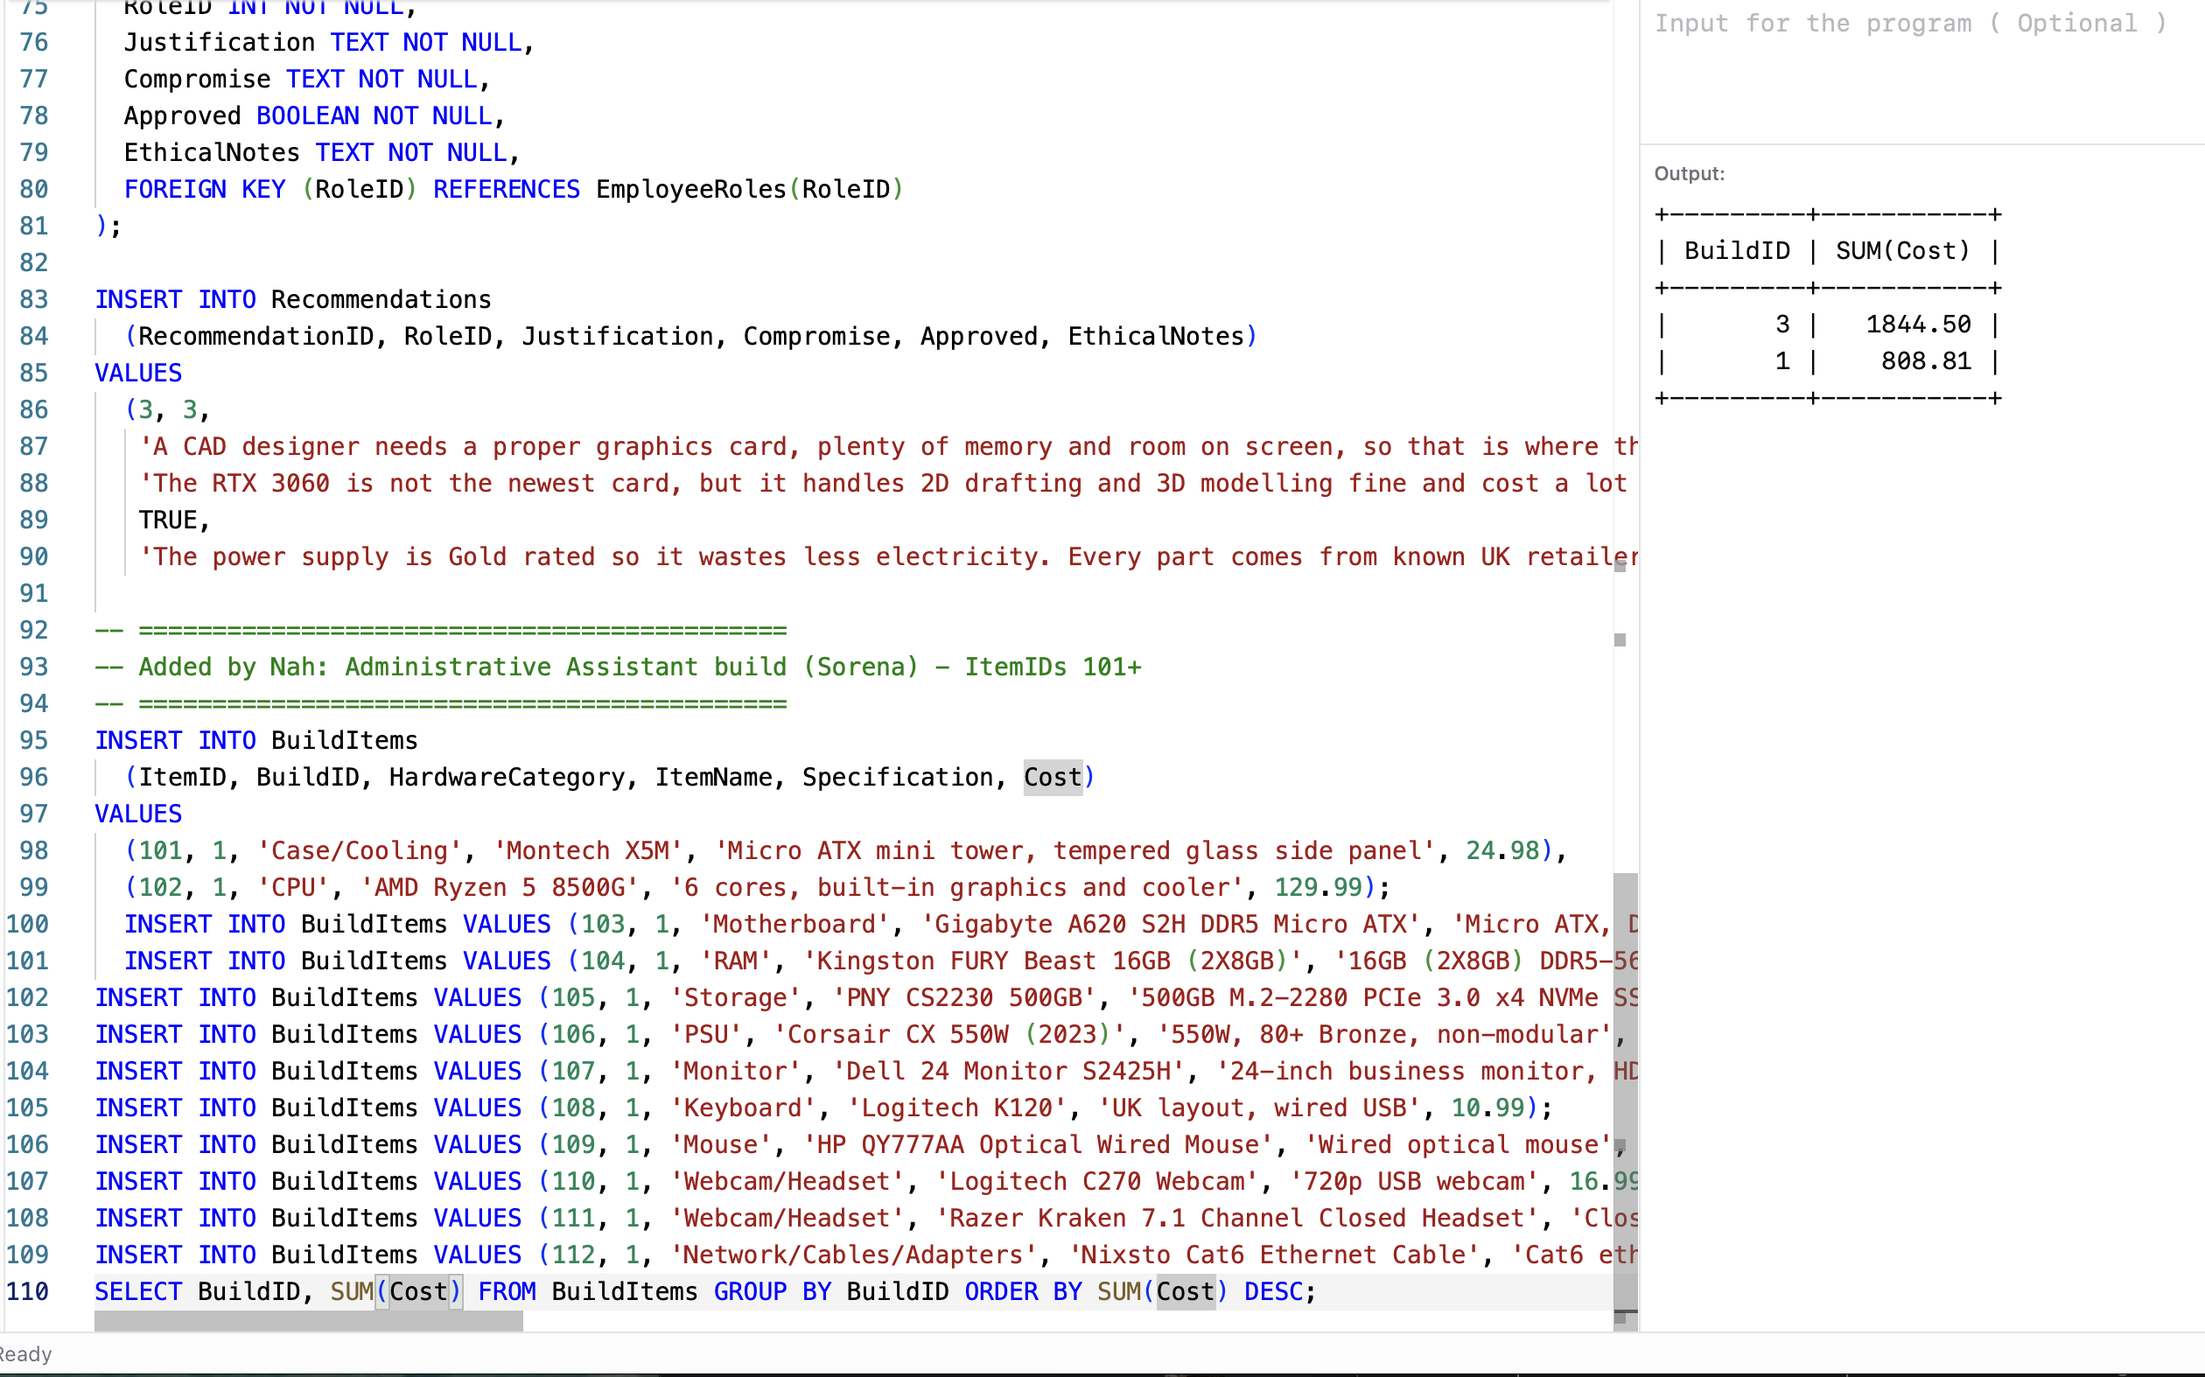
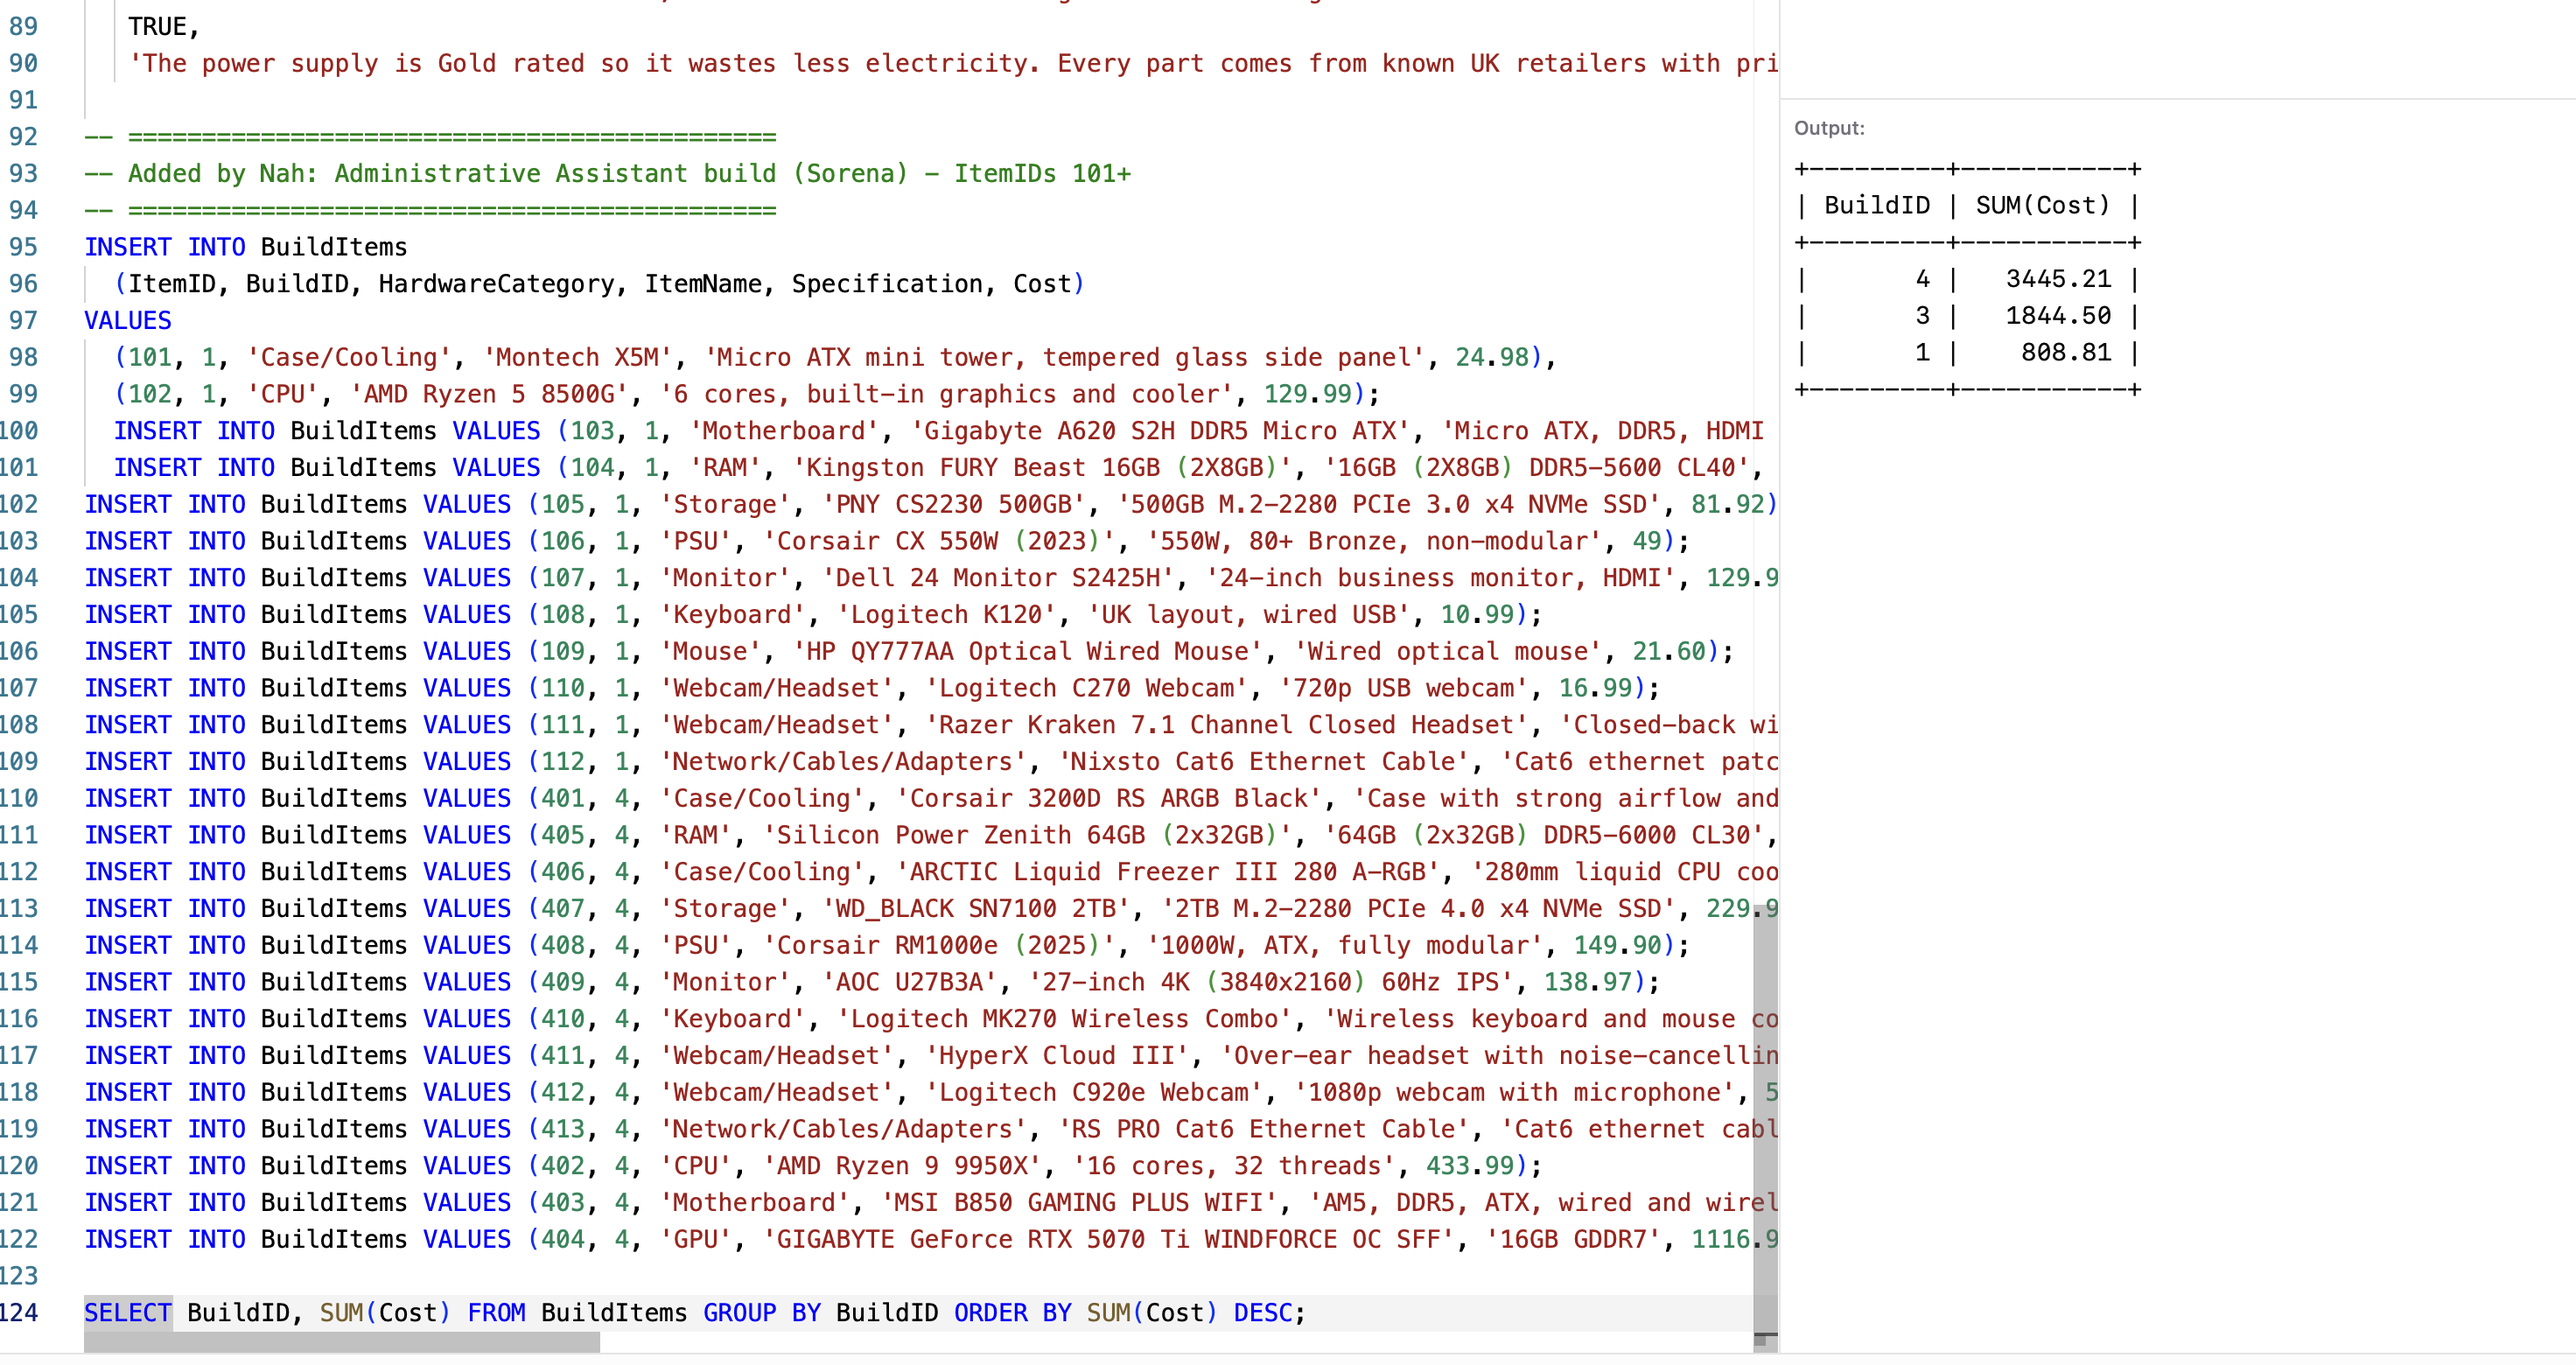
Add files via upload
Update Nah's SQL work: add Charlie's 3D Visualisation build, re-run Q8, Q10, Q11 with 3 builds

diff --git a/01_Computing_Fundamentals/SQL_Database/Nah_SQL/SQL_Query_Explanations_Nah.md b/01_Computing_Fundamentals/SQL_Database/Nah_SQL/SQL_Query_Explanations_Nah.md
@@ -97,7 +97,8 @@ JOIN EmployeeRoles ON WorkstationBuilds.RoleID = EmployeeRoles.RoleID;
 ```
 *Explanation to come.*
 
-![Query 10 result](Evidence/SQL_Queries/Q10.png)
+![Query 10 result, part 1](Evidence/SQL_Queries/Q10a.png)
+![Query 10 result, part 2](Evidence/SQL_Queries/Q10b.png)
 
 ### Query 11: Spend per role
 ```sql
